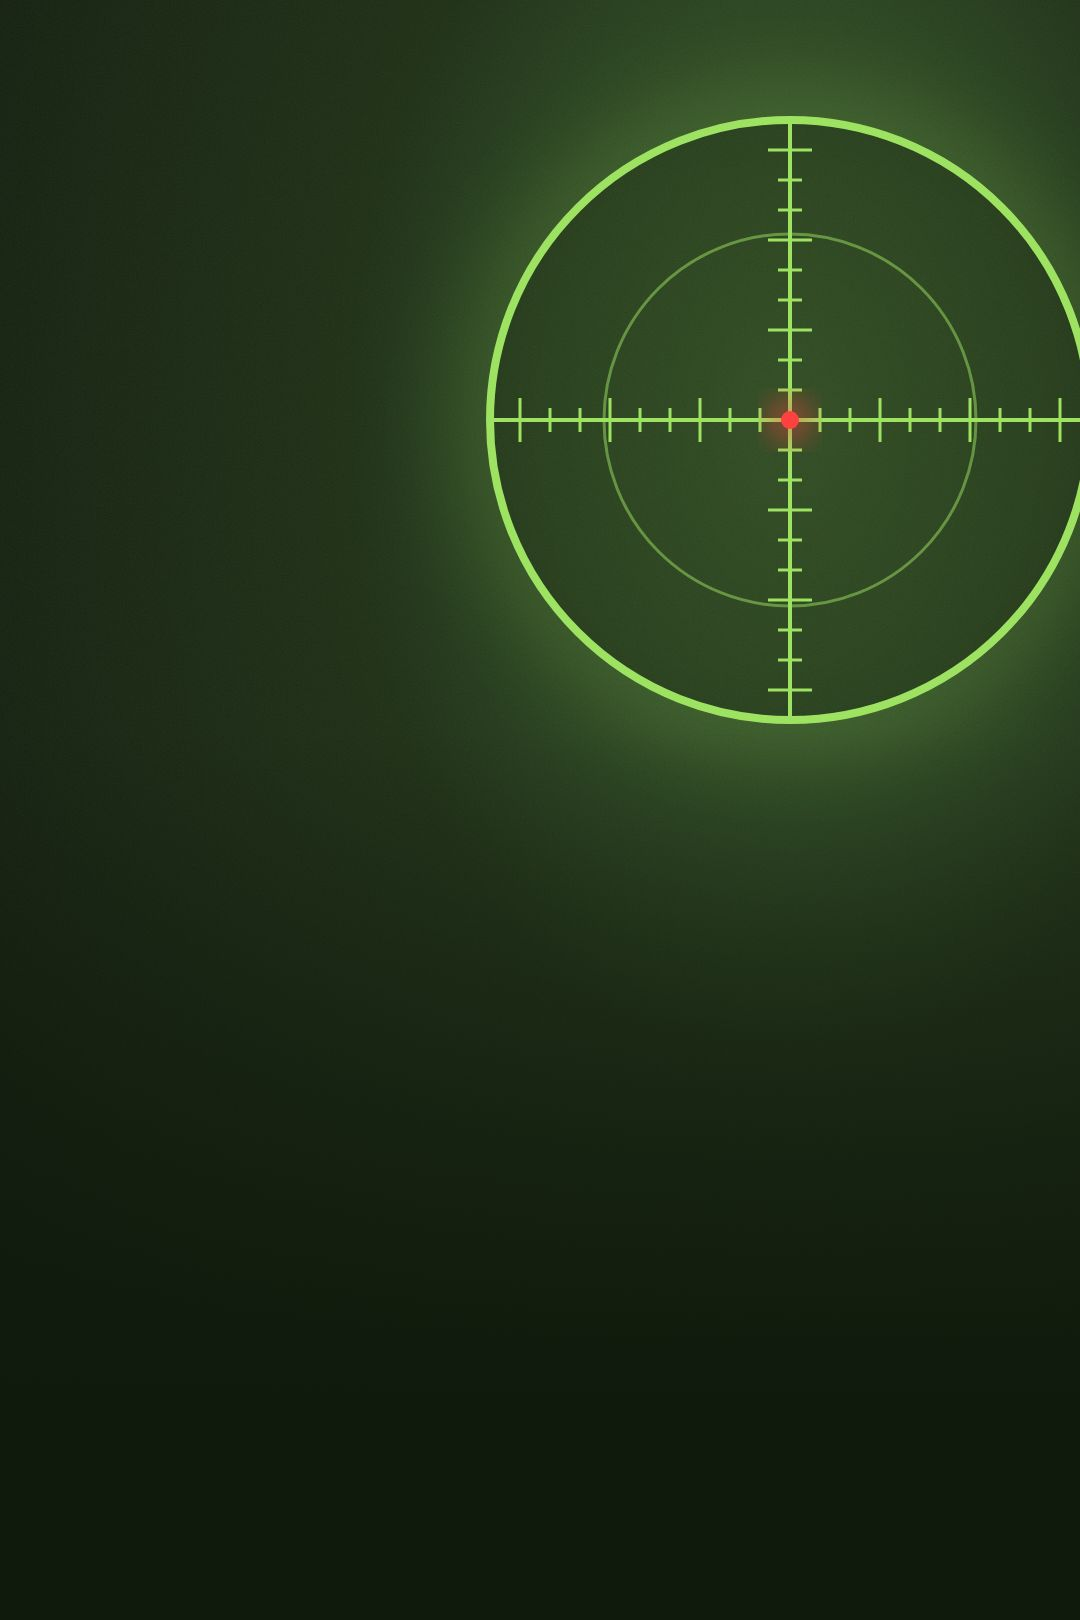
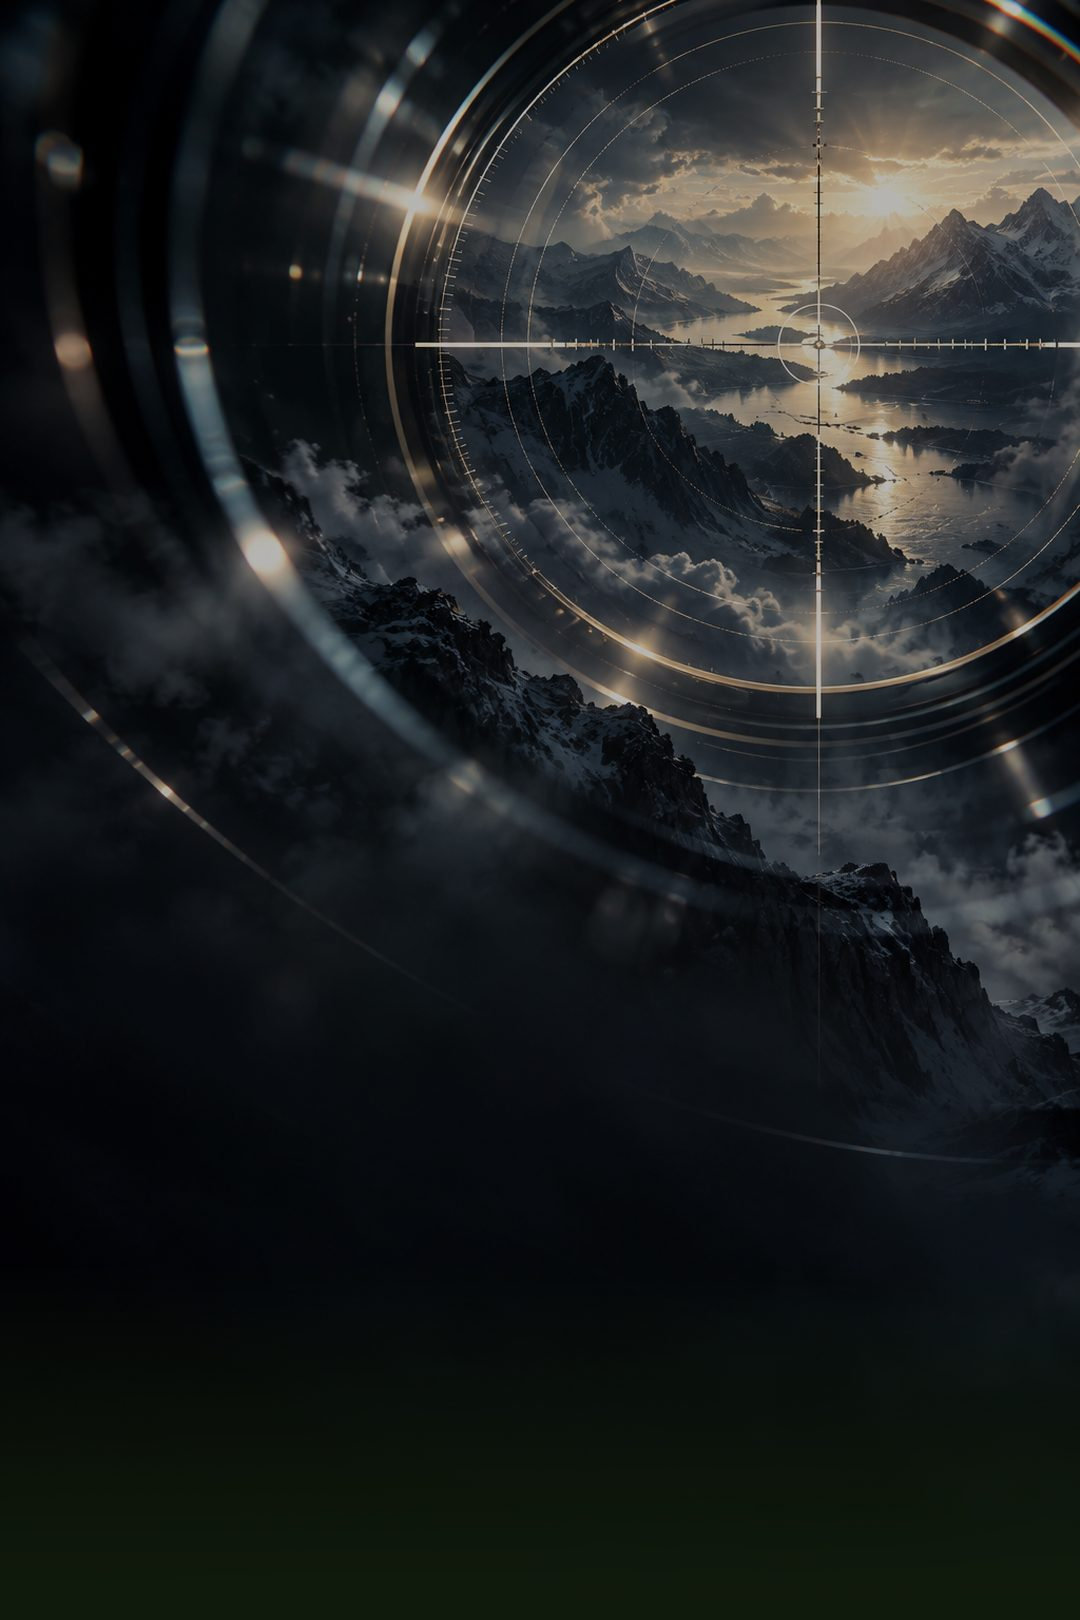
Fight IQ cards: supplied artwork for Oracle, Chaos Merchant and Method Sniper
Replaces three drawn backgrounds with the owner's images (1024x1536,
resized to 1080x1620, brightness 0.72 so the stats stay legible, bottom
22% faded into the card's base colour). card_art.py skips them via
SUPPLIED so a re-render can't overwrite them. SW_VERSION bumped.

Claude-Session: https://claude.ai/code/session_013ntsfcXMNYaGTWgHAWL1Gb

diff --git a/sw.js b/sw.js
@@ -2,7 +2,7 @@
 // Bump SW_VERSION on every deploy: changing this file's bytes makes browsers
 // detect a SW update, which (via the controllerchange listener in index.html)
 // auto-reloads open clients onto the latest code.
-const SW_VERSION = "2026-09-24-20";
+const SW_VERSION = "2026-09-25-1";
 const CACHE = 'ufc-' + SW_VERSION;
 // Handoff caches that must survive SW upgrades: 'ufc-push-id' carries the push
 // identity used by pushsubscriptionchange while the app is closed, 'ufc-tap'

diff --git a/scripts/card_art.py b/scripts/card_art.py
@@ -216,12 +216,21 @@ def casual(rng):
     return defs, body
 
 
+# Archetypes whose lab/cards/<key>.jpg is supplied artwork (1024x1536 PNGs
+# from the owner, resized to 1080x1620) rather than drawn here. They are
+# skipped, and their SVG removed, so a re-run of this script plus the
+# renderer can never overwrite the supplied image with the drawn one.
+SUPPLIED = {"oracle", "chaos", "method"}
+
 SCENES = {"oracle": oracle, "dog": dog, "lock": lock, "chalk": chalk, "contrarian": contrarian,
           "grappling": grappling, "chaos": chaos, "method": method, "solid": solid, "casual": casual}
 
 if __name__ == "__main__":
     OUT.mkdir(parents=True, exist_ok=True)
     for key, fn in SCENES.items():
+        if key in SUPPLIED:
+            (OUT / f"{key}.svg").unlink(missing_ok=True)
+            continue
         defs, body = fn(random.Random(key))      # seeded: the art is reproducible
         (OUT / f"{key}.svg").write_text(svg(key, defs, body), encoding="utf-8")
         print("wrote", key)
